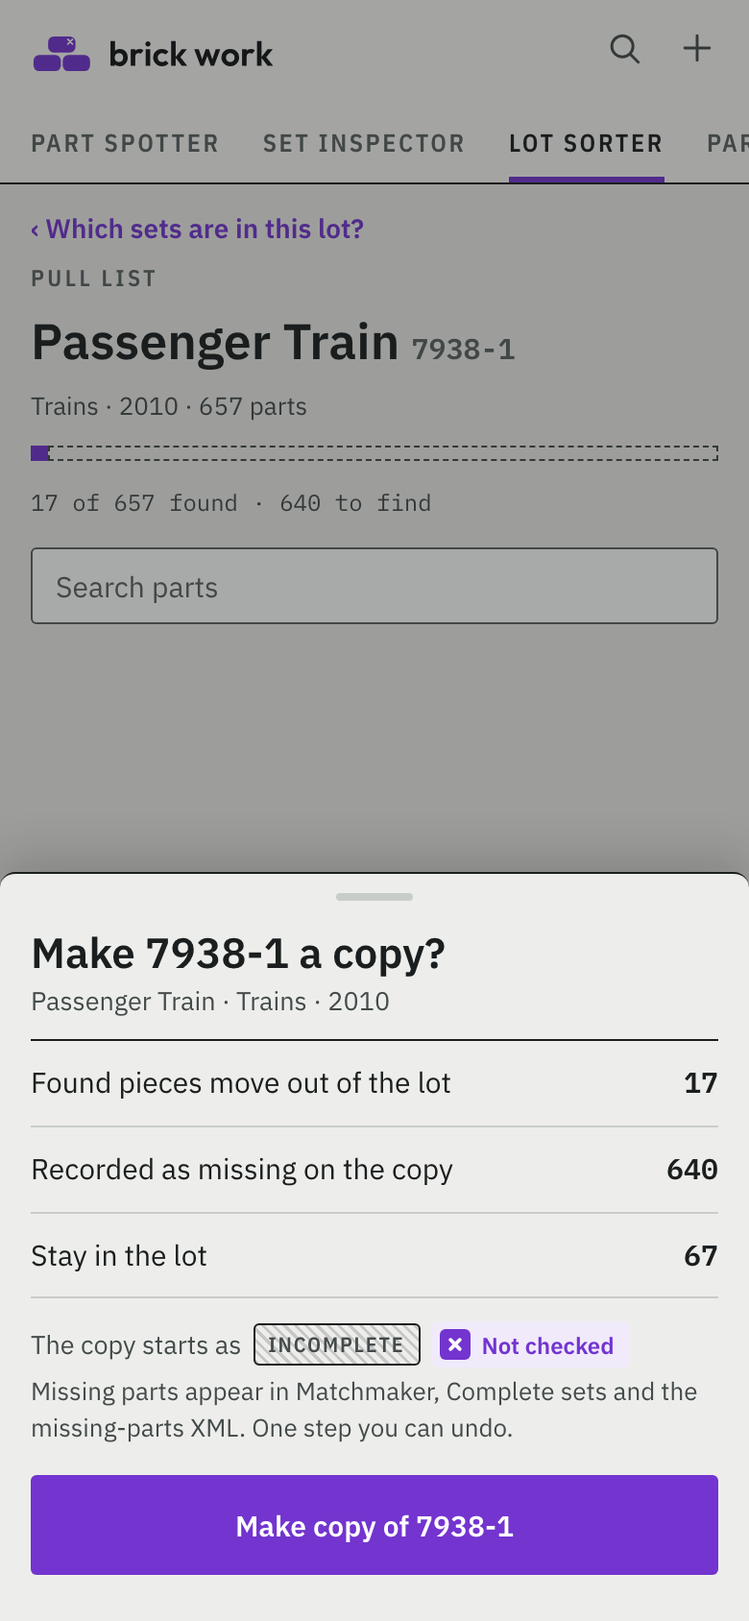
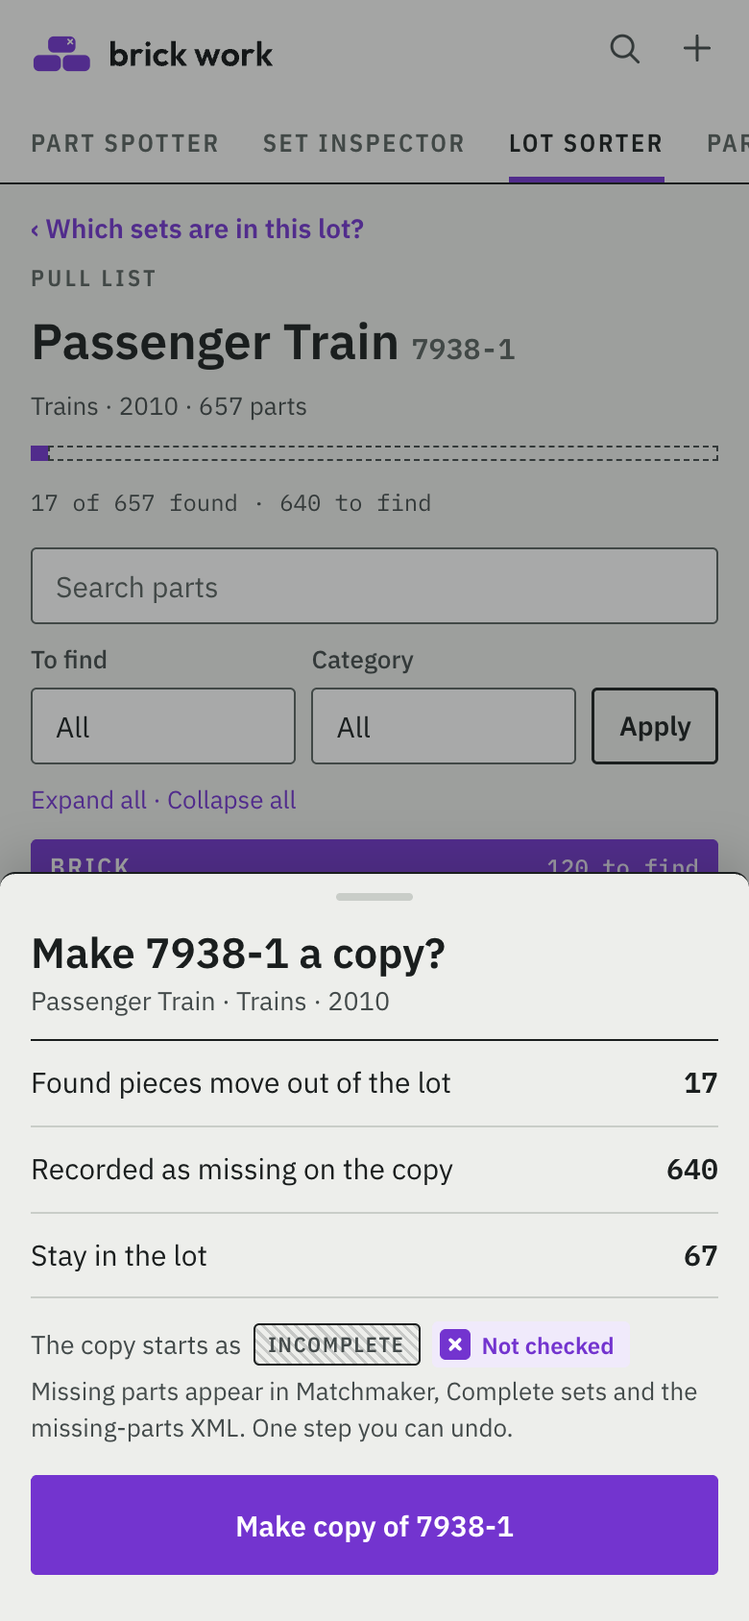
Lot Sorter frame 14 at 390: the pull list tools row, Expand all and the first group header drawn (#509)
Found by the brick-work frame check: shipped controls behind the scrim were left out of the phone frame. Frame files, b_frames.py and one BUILD-NOTES note only.

Claude-Session: https://claude.ai/code/session_018rf9z7oGb7bys5mk2HcdAb

diff --git a/design/screens-b/14-lot-sorter/light-390.html b/design/screens-b/14-lot-sorter/light-390.html
@@ -93,4 +93,4 @@ html,body{width:390px;height:844px}
 .chip{display:inline-flex;align-items:center;height:22px;padding:0 7px;border-radius:3px;font:500 12px var(--tw-font);white-space:nowrap}
 .ptile{width:44px;height:44px;flex:none;background:var(--tw-tile);border:1px solid var(--tw-divider);border-radius:2px;display:flex;align-items:flex-end;justify-content:center;font:400 9px var(--tw-mono);color:var(--tw-tile-ink);padding-bottom:3px}
 
-</style></head><body><div style="position:relative;height:100%"><div class="ptop"><svg role="img" aria-label="Brick Work" style="height:32px;width:129px;flex:none;display:block" xmlns="http://www.w3.org/2000/svg" viewBox="0 0 402.0 100"><defs><rect id="u" x="-22.0" y="-13.0" width="44" height="26" rx="9"/><mask id="m" maskUnits="userSpaceOnUse" x="-60" y="-60" width="120" height="120"><rect x="-60" y="-60" width="120" height="120" fill="#fff"/><path d="M9.75 -8.25L17.25 -0.75M17.25 -8.25L9.75 -0.75" stroke="#000" stroke-width="2.6" stroke-linecap="round" fill="none"/></mask></defs><g fill="#7334CF"><use href="#u" transform="translate(26.242 65.165) rotate(0) scale(1.0110)"/><use href="#u" transform="translate(73.758 65.165) rotate(0) scale(1.0110)"/><g transform="translate(50.000 34.835) rotate(0) scale(1.0110)"><use href="#u" mask="url(#m)"/></g></g><path transform="translate(126 69.68)" d="M18.256 0.56Q15.344000000000001 0.56 12.992 -0.672Q10.64 -1.9040000000000001 9.24 -4.032Q7.84 -6.16 7.728 -8.792V-18.424Q7.84 -21.056 9.268 -23.156Q10.696 -25.256 13.048 -26.432000000000002Q15.4 -27.608 18.256 -27.608Q22.008 -27.608 24.976 -25.759999999999998Q27.944 -23.912 29.652 -20.72Q31.36 -17.528 31.36 -13.496Q31.36 -9.52 29.652 -6.327999999999999Q27.944 -3.136 24.976 -1.288Q22.008 0.56 18.256 0.56ZM3.248 0.0V-40.488H10.584V-20.384L9.352 -13.888L10.528 -7.28V0.0ZM17.024 -6.216Q19.04 -6.216 20.58 -7.140000000000001Q22.12 -8.064 22.988 -9.716000000000001Q23.856 -11.368 23.856 -13.552Q23.856 -15.68 22.988 -17.332Q22.12 -18.984 20.552 -19.908Q18.984 -20.832 16.968 -20.832Q14.952 -20.832 13.411999999999999 -19.908Q11.872 -18.984 11.004000000000001 -17.332Q10.136000000000001 -15.68 10.136000000000001 -13.552Q10.136000000000001 -11.368 11.004000000000001 -9.716000000000001Q11.872 -8.064 13.440000000000001 -7.140000000000001Q15.008000000000001 -6.216 17.024 -6.216ZM36.175999999999995 0.0V-27.048000000000002H43.512V0.0ZM43.512 -14.952 40.656 -16.856Q41.16 -21.84 43.568 -24.724Q45.976 -27.608 50.512 -27.608Q52.471999999999994 -27.608 54.03999999999999 -26.964Q55.608 -26.32 56.896 -24.864L52.304 -19.6Q51.688 -20.272000000000002 50.82 -20.608Q49.952 -20.944 48.831999999999994 -20.944Q46.48 -20.944 44.995999999999995 -19.46Q43.512 -17.976 43.512 -14.952ZM60.48 0.0V-27.048000000000002H67.872V0.0ZM64.176 -31.416Q62.384 -31.416 61.208 -32.62Q60.032 -33.824 60.032 -35.616Q60.032 -37.352000000000004 61.208 -38.584Q62.384 -39.816 64.176 -39.816Q66.024 -39.816 67.172 -38.584Q68.32 -37.352000000000004 68.32 -35.616Q68.32 -33.824 67.172 -32.62Q66.024 -31.416 64.176 -31.416ZM87.13600000000001 0.56Q82.992 0.56 79.688 -1.288Q76.384 -3.136 74.48 -6.327999999999999Q72.57600000000001 -9.52 72.57600000000001 -13.496Q72.57600000000001 -17.528 74.48 -20.72Q76.384 -23.912 79.71600000000001 -25.788Q83.048 -27.664 87.13600000000001 -27.664Q90.328 -27.664 93.016 -26.488Q95.70400000000001 -25.312 97.664 -23.128L92.96000000000001 -18.368000000000002Q91.896 -19.544 90.412 -20.16Q88.928 -20.776 87.13600000000001 -20.776Q85.12 -20.776 83.524 -19.852Q81.928 -18.928 81.004 -17.332Q80.08000000000001 -15.736 80.08000000000001 -13.552Q80.08000000000001 -11.424 81.004 -9.772Q81.928 -8.120000000000001 83.524 -7.196000000000001Q85.12 -6.272 87.13600000000001 -6.272Q88.98400000000001 -6.272 90.468 -6.916Q91.952 -7.5600000000000005 93.016 -8.792L97.77600000000001 -4.032Q95.70400000000001 -1.792 93.016 -0.616Q90.328 0.56 87.13600000000001 0.56ZM119.16799999999999 0.0 108.696 -13.944 119.112 -27.048000000000002H127.568L115.36 -12.264000000000001L115.64 -15.848L128.128 0.0ZM101.92 0.0V-40.488H109.256V0.0ZM149.632 0.0 139.496 -27.048000000000002H146.888L153.496 -7.392L151.256 -7.336L158.03199999999998 -27.048000000000002H163.352L170.128 -7.336L167.888 -7.392L174.49599999999998 -27.048000000000002H181.888L171.808 0.0H166.488L159.656 -18.704H161.728L154.896 0.0ZM198.184 0.56Q194.096 0.56 190.82 -1.316Q187.54399999999998 -3.192 185.61199999999997 -6.412Q183.67999999999998 -9.632 183.67999999999998 -13.608Q183.67999999999998 -17.584 185.584 -20.747999999999998Q187.488 -23.912 190.792 -25.788Q194.096 -27.664 198.128 -27.664Q202.272 -27.664 205.548 -25.788Q208.82399999999998 -23.912 210.728 -20.747999999999998Q212.632 -17.584 212.632 -13.608Q212.632 -9.632 210.728 -6.412Q208.82399999999998 -3.192 205.548 -1.316Q202.272 0.56 198.184 0.56ZM198.128 -6.272Q200.2 -6.272 201.796 -7.196000000000001Q203.392 -8.120000000000001 204.26 -9.772Q205.128 -11.424 205.128 -13.552Q205.128 -15.68 204.23199999999997 -17.304000000000002Q203.33599999999998 -18.928 201.76799999999997 -19.852Q200.2 -20.776 198.128 -20.776Q196.112 -20.776 194.54399999999998 -19.852Q192.976 -18.928 192.07999999999998 -17.304000000000002Q191.184 -15.68 191.184 -13.552Q191.184 -11.424 192.07999999999998 -9.772Q192.976 -8.120000000000001 194.54399999999998 -7.196000000000001Q196.112 -6.272 198.128 -6.272ZM217.33599999999998 0.0V-27.048000000000002H224.672V0.0ZM224.672 -14.952 221.816 -16.856Q222.32 -21.84 224.728 -24.724Q227.136 -27.608 231.672 -27.608Q233.632 -27.608 235.2 -26.964Q236.768 -26.32 238.05599999999998 -24.864L233.464 -19.6Q232.84799999999998 -20.272000000000002 231.98 -20.608Q231.112 -20.944 229.992 -20.944Q227.64 -20.944 226.156 -19.46Q224.672 -17.976 224.672 -14.952ZM258.888 0.0 248.416 -13.944 258.832 -27.048000000000002H267.288L255.07999999999998 -12.264000000000001L255.35999999999999 -15.848L267.848 0.0ZM241.64 0.0V-40.488H248.976V0.0Z" fill="#111214"/></svg><span style="margin-left:auto;color:var(--tw-text-2)"><svg class="ic" width="22" height="22" viewBox="0 0 24 24" fill="none" stroke="currentColor" stroke-width="1.6" stroke-linecap="round" stroke-linejoin="round"><circle cx="11" cy="11" r="6"/><path d="M20 20l-4.5-4.5"/></svg></span><span style="color:var(--tw-text-2)"><svg class="ic" width="22" height="22" viewBox="0 0 24 24" fill="none" stroke="currentColor" stroke-width="1.6" stroke-linecap="round" stroke-linejoin="round"><path d="M12 5v14M5 12h14"/></svg></span></div><div class="psub"><span class="">Part Spotter</span><span class="">Set Inspector</span><span class="on">Lot Sorter</span><span class="">Part Runner</span><span class="">Matchmaker</span><span class="">Build Scout</span><span class="">Orders</span><span class="">Storage</span></div><div style="padding:14px 16px 0;display:flex;flex-direction:column;gap:10px"><div style="font:600 14px var(--tw-font);color:var(--tw-accent-text)">‹ Which sets are in this lot?</div><div class="lbl">Pull list</div><div style="font:600 26px/1.2 var(--tw-font)">Passenger Train <span class="mono" style="font-size:15px;color:var(--tw-text-muted)">7938-1</span></div><div style="font-size:13px;color:var(--tw-text-2)">Trains · 2010 · 657 parts</div><div class="bar" style="height:8px"><i style="width:2.6%;background:var(--tw-accent)"></i><i style="flex:1;border:1.5px dashed var(--tw-text-2)"></i></div><div class="bartxt">17 of 657 found · 640 to find</div><span class="input" style="height:40px;color:var(--tw-text-muted)">Search parts</span></div><div style="position:absolute;inset:0;z-index:5"><div class="scrim"></div><div class="sheet" style="bottom:0"><div style="width:40px;height:4px;border-radius:2px;background:var(--tw-divider);margin:0 auto 14px"></div><div style="font:600 22px/1.2 var(--tw-font)">Make 7938-1 a copy?</div><div style="font-size:13.5px;color:var(--tw-text-2);margin:2px 0 10px">Passenger Train · Trains · 2010</div><div style="border-top:1.5px solid var(--tw-rule)"><div style="display:flex;justify-content:space-between;padding:11px 0;border-bottom:1px solid var(--tw-divider);font-size:15px"><span>Found pieces move out of the lot</span><span class="mono" style="font-weight:600">17</span></div><div style="display:flex;justify-content:space-between;padding:11px 0;border-bottom:1px solid var(--tw-divider);font-size:15px"><span>Recorded as missing on the copy</span><span class="mono" style="font-weight:600">640</span></div><div style="display:flex;justify-content:space-between;padding:11px 0;border-bottom:1px solid var(--tw-divider);font-size:15px"><span>Stay in the lot</span><span class="mono" style="font-weight:600">67</span></div></div><div style="display:flex;gap:6px;align-items:center;flex-wrap:wrap;font-size:13.5px;color:var(--tw-text-2);margin:12px 0 4px">The copy starts as <span class="tag" style="background:repeating-linear-gradient(45deg,rgba(26,30,30,.18) 0 1.5px,transparent 1.5px 4px)">Incomplete</span><span class="xchip"><i><svg width="10" height="10" viewBox="0 0 10 10"><path d="M2.6 2.6l4.8 4.8M7.4 2.6l-4.8 4.8" stroke="#fff" stroke-width="1.9" stroke-linecap="round"/></svg></i>Not checked</span></div><p style="font-size:13px;color:var(--tw-text-2)">Missing parts appear in Matchmaker, Complete sets and the missing-parts XML. One step you can undo.</p><span class="btn" style="width:100%;height:52px;margin-top:14px">Make copy of 7938-1</span></div></div><div class="tabbar"><div class=""><svg class="ic" width="22" height="22" viewBox="0 0 24 24" fill="none" stroke="currentColor" stroke-width="1.6" stroke-linecap="round" stroke-linejoin="round"><path d="M4 9h16v10H4z"/><path d="M4 9l2-3h12l2 3"/></svg><span>Collection</span></div><div class="on"><svg class="ic" width="22" height="22" viewBox="0 0 24 24" fill="none" stroke="currentColor" stroke-width="1.6" stroke-linecap="round" stroke-linejoin="round"><path d="M4 7h10M18 7h2M4 17h4M12 17h8"/><circle cx="16" cy="7" r="2"/><circle cx="10" cy="17" r="2"/></svg><span>Workbench</span><b></b></div><div class=""><svg class="ic" width="22" height="22" viewBox="0 0 24 24" fill="none" stroke="currentColor" stroke-width="1.6" stroke-linecap="round" stroke-linejoin="round"><path d="M3 12V4h8l10 10-8 8z"/><circle cx="7.5" cy="8" r="1.2"/></svg><span>Planning</span></div><div class=""><svg class="ic" width="22" height="22" viewBox="0 0 24 24" fill="none" stroke="currentColor" stroke-width="1.6" stroke-linecap="round" stroke-linejoin="round"><path d="M14 6a4 4 0 105 5l-8 8-3-3 8-8z"/></svg><span>Manage</span></div></div></div></body></html>
+</style></head><body><div style="position:relative;height:100%"><div class="ptop"><svg role="img" aria-label="Brick Work" style="height:32px;width:129px;flex:none;display:block" xmlns="http://www.w3.org/2000/svg" viewBox="0 0 402.0 100"><defs><rect id="u" x="-22.0" y="-13.0" width="44" height="26" rx="9"/><mask id="m" maskUnits="userSpaceOnUse" x="-60" y="-60" width="120" height="120"><rect x="-60" y="-60" width="120" height="120" fill="#fff"/><path d="M9.75 -8.25L17.25 -0.75M17.25 -8.25L9.75 -0.75" stroke="#000" stroke-width="2.6" stroke-linecap="round" fill="none"/></mask></defs><g fill="#7334CF"><use href="#u" transform="translate(26.242 65.165) rotate(0) scale(1.0110)"/><use href="#u" transform="translate(73.758 65.165) rotate(0) scale(1.0110)"/><g transform="translate(50.000 34.835) rotate(0) scale(1.0110)"><use href="#u" mask="url(#m)"/></g></g><path transform="translate(126 69.68)" d="M18.256 0.56Q15.344000000000001 0.56 12.992 -0.672Q10.64 -1.9040000000000001 9.24 -4.032Q7.84 -6.16 7.728 -8.792V-18.424Q7.84 -21.056 9.268 -23.156Q10.696 -25.256 13.048 -26.432000000000002Q15.4 -27.608 18.256 -27.608Q22.008 -27.608 24.976 -25.759999999999998Q27.944 -23.912 29.652 -20.72Q31.36 -17.528 31.36 -13.496Q31.36 -9.52 29.652 -6.327999999999999Q27.944 -3.136 24.976 -1.288Q22.008 0.56 18.256 0.56ZM3.248 0.0V-40.488H10.584V-20.384L9.352 -13.888L10.528 -7.28V0.0ZM17.024 -6.216Q19.04 -6.216 20.58 -7.140000000000001Q22.12 -8.064 22.988 -9.716000000000001Q23.856 -11.368 23.856 -13.552Q23.856 -15.68 22.988 -17.332Q22.12 -18.984 20.552 -19.908Q18.984 -20.832 16.968 -20.832Q14.952 -20.832 13.411999999999999 -19.908Q11.872 -18.984 11.004000000000001 -17.332Q10.136000000000001 -15.68 10.136000000000001 -13.552Q10.136000000000001 -11.368 11.004000000000001 -9.716000000000001Q11.872 -8.064 13.440000000000001 -7.140000000000001Q15.008000000000001 -6.216 17.024 -6.216ZM36.175999999999995 0.0V-27.048000000000002H43.512V0.0ZM43.512 -14.952 40.656 -16.856Q41.16 -21.84 43.568 -24.724Q45.976 -27.608 50.512 -27.608Q52.471999999999994 -27.608 54.03999999999999 -26.964Q55.608 -26.32 56.896 -24.864L52.304 -19.6Q51.688 -20.272000000000002 50.82 -20.608Q49.952 -20.944 48.831999999999994 -20.944Q46.48 -20.944 44.995999999999995 -19.46Q43.512 -17.976 43.512 -14.952ZM60.48 0.0V-27.048000000000002H67.872V0.0ZM64.176 -31.416Q62.384 -31.416 61.208 -32.62Q60.032 -33.824 60.032 -35.616Q60.032 -37.352000000000004 61.208 -38.584Q62.384 -39.816 64.176 -39.816Q66.024 -39.816 67.172 -38.584Q68.32 -37.352000000000004 68.32 -35.616Q68.32 -33.824 67.172 -32.62Q66.024 -31.416 64.176 -31.416ZM87.13600000000001 0.56Q82.992 0.56 79.688 -1.288Q76.384 -3.136 74.48 -6.327999999999999Q72.57600000000001 -9.52 72.57600000000001 -13.496Q72.57600000000001 -17.528 74.48 -20.72Q76.384 -23.912 79.71600000000001 -25.788Q83.048 -27.664 87.13600000000001 -27.664Q90.328 -27.664 93.016 -26.488Q95.70400000000001 -25.312 97.664 -23.128L92.96000000000001 -18.368000000000002Q91.896 -19.544 90.412 -20.16Q88.928 -20.776 87.13600000000001 -20.776Q85.12 -20.776 83.524 -19.852Q81.928 -18.928 81.004 -17.332Q80.08000000000001 -15.736 80.08000000000001 -13.552Q80.08000000000001 -11.424 81.004 -9.772Q81.928 -8.120000000000001 83.524 -7.196000000000001Q85.12 -6.272 87.13600000000001 -6.272Q88.98400000000001 -6.272 90.468 -6.916Q91.952 -7.5600000000000005 93.016 -8.792L97.77600000000001 -4.032Q95.70400000000001 -1.792 93.016 -0.616Q90.328 0.56 87.13600000000001 0.56ZM119.16799999999999 0.0 108.696 -13.944 119.112 -27.048000000000002H127.568L115.36 -12.264000000000001L115.64 -15.848L128.128 0.0ZM101.92 0.0V-40.488H109.256V0.0ZM149.632 0.0 139.496 -27.048000000000002H146.888L153.496 -7.392L151.256 -7.336L158.03199999999998 -27.048000000000002H163.352L170.128 -7.336L167.888 -7.392L174.49599999999998 -27.048000000000002H181.888L171.808 0.0H166.488L159.656 -18.704H161.728L154.896 0.0ZM198.184 0.56Q194.096 0.56 190.82 -1.316Q187.54399999999998 -3.192 185.61199999999997 -6.412Q183.67999999999998 -9.632 183.67999999999998 -13.608Q183.67999999999998 -17.584 185.584 -20.747999999999998Q187.488 -23.912 190.792 -25.788Q194.096 -27.664 198.128 -27.664Q202.272 -27.664 205.548 -25.788Q208.82399999999998 -23.912 210.728 -20.747999999999998Q212.632 -17.584 212.632 -13.608Q212.632 -9.632 210.728 -6.412Q208.82399999999998 -3.192 205.548 -1.316Q202.272 0.56 198.184 0.56ZM198.128 -6.272Q200.2 -6.272 201.796 -7.196000000000001Q203.392 -8.120000000000001 204.26 -9.772Q205.128 -11.424 205.128 -13.552Q205.128 -15.68 204.23199999999997 -17.304000000000002Q203.33599999999998 -18.928 201.76799999999997 -19.852Q200.2 -20.776 198.128 -20.776Q196.112 -20.776 194.54399999999998 -19.852Q192.976 -18.928 192.07999999999998 -17.304000000000002Q191.184 -15.68 191.184 -13.552Q191.184 -11.424 192.07999999999998 -9.772Q192.976 -8.120000000000001 194.54399999999998 -7.196000000000001Q196.112 -6.272 198.128 -6.272ZM217.33599999999998 0.0V-27.048000000000002H224.672V0.0ZM224.672 -14.952 221.816 -16.856Q222.32 -21.84 224.728 -24.724Q227.136 -27.608 231.672 -27.608Q233.632 -27.608 235.2 -26.964Q236.768 -26.32 238.05599999999998 -24.864L233.464 -19.6Q232.84799999999998 -20.272000000000002 231.98 -20.608Q231.112 -20.944 229.992 -20.944Q227.64 -20.944 226.156 -19.46Q224.672 -17.976 224.672 -14.952ZM258.888 0.0 248.416 -13.944 258.832 -27.048000000000002H267.288L255.07999999999998 -12.264000000000001L255.35999999999999 -15.848L267.848 0.0ZM241.64 0.0V-40.488H248.976V0.0Z" fill="#111214"/></svg><span style="margin-left:auto;color:var(--tw-text-2)"><svg class="ic" width="22" height="22" viewBox="0 0 24 24" fill="none" stroke="currentColor" stroke-width="1.6" stroke-linecap="round" stroke-linejoin="round"><circle cx="11" cy="11" r="6"/><path d="M20 20l-4.5-4.5"/></svg></span><span style="color:var(--tw-text-2)"><svg class="ic" width="22" height="22" viewBox="0 0 24 24" fill="none" stroke="currentColor" stroke-width="1.6" stroke-linecap="round" stroke-linejoin="round"><path d="M12 5v14M5 12h14"/></svg></span></div><div class="psub"><span class="">Part Spotter</span><span class="">Set Inspector</span><span class="on">Lot Sorter</span><span class="">Part Runner</span><span class="">Matchmaker</span><span class="">Build Scout</span><span class="">Orders</span><span class="">Storage</span></div><div style="padding:14px 16px 0;display:flex;flex-direction:column;gap:10px"><div style="font:600 14px var(--tw-font);color:var(--tw-accent-text)">‹ Which sets are in this lot?</div><div class="lbl">Pull list</div><div style="font:600 26px/1.2 var(--tw-font)">Passenger Train <span class="mono" style="font-size:15px;color:var(--tw-text-muted)">7938-1</span></div><div style="font-size:13px;color:var(--tw-text-2)">Trains · 2010 · 657 parts</div><div class="bar" style="height:8px"><i style="width:2.6%;background:var(--tw-accent)"></i><i style="flex:1;border:1.5px dashed var(--tw-text-2)"></i></div><div class="bartxt">17 of 657 found · 640 to find</div><span class="input" style="height:40px;color:var(--tw-text-muted)">Search parts</span><div style="display:flex;gap:8px;align-items:flex-end"><label class="field" style="flex:1;min-width:0">To find<span class="input" style="height:40px">All</span></label><label class="field" style="flex:1;min-width:0">Category<span class="input" style="height:40px">All</span></label><span class="btn sec sm" style="height:40px">Apply</span></div><div style="font-size:13px;color:var(--tw-accent-text)">Expand all · Collapse all</div><div class="tape">Brick<span class="mono">120 to find</span></div></div><div style="position:absolute;inset:0;z-index:5"><div class="scrim"></div><div class="sheet" style="bottom:0"><div style="width:40px;height:4px;border-radius:2px;background:var(--tw-divider);margin:0 auto 14px"></div><div style="font:600 22px/1.2 var(--tw-font)">Make 7938-1 a copy?</div><div style="font-size:13.5px;color:var(--tw-text-2);margin:2px 0 10px">Passenger Train · Trains · 2010</div><div style="border-top:1.5px solid var(--tw-rule)"><div style="display:flex;justify-content:space-between;padding:11px 0;border-bottom:1px solid var(--tw-divider);font-size:15px"><span>Found pieces move out of the lot</span><span class="mono" style="font-weight:600">17</span></div><div style="display:flex;justify-content:space-between;padding:11px 0;border-bottom:1px solid var(--tw-divider);font-size:15px"><span>Recorded as missing on the copy</span><span class="mono" style="font-weight:600">640</span></div><div style="display:flex;justify-content:space-between;padding:11px 0;border-bottom:1px solid var(--tw-divider);font-size:15px"><span>Stay in the lot</span><span class="mono" style="font-weight:600">67</span></div></div><div style="display:flex;gap:6px;align-items:center;flex-wrap:wrap;font-size:13.5px;color:var(--tw-text-2);margin:12px 0 4px">The copy starts as <span class="tag" style="background:repeating-linear-gradient(45deg,rgba(26,30,30,.18) 0 1.5px,transparent 1.5px 4px)">Incomplete</span><span class="xchip"><i><svg width="10" height="10" viewBox="0 0 10 10"><path d="M2.6 2.6l4.8 4.8M7.4 2.6l-4.8 4.8" stroke="#fff" stroke-width="1.9" stroke-linecap="round"/></svg></i>Not checked</span></div><p style="font-size:13px;color:var(--tw-text-2)">Missing parts appear in Matchmaker, Complete sets and the missing-parts XML. One step you can undo.</p><span class="btn" style="width:100%;height:52px;margin-top:14px">Make copy of 7938-1</span></div></div><div class="tabbar"><div class=""><svg class="ic" width="22" height="22" viewBox="0 0 24 24" fill="none" stroke="currentColor" stroke-width="1.6" stroke-linecap="round" stroke-linejoin="round"><path d="M4 9h16v10H4z"/><path d="M4 9l2-3h12l2 3"/></svg><span>Collection</span></div><div class="on"><svg class="ic" width="22" height="22" viewBox="0 0 24 24" fill="none" stroke="currentColor" stroke-width="1.6" stroke-linecap="round" stroke-linejoin="round"><path d="M4 7h10M18 7h2M4 17h4M12 17h8"/><circle cx="16" cy="7" r="2"/><circle cx="10" cy="17" r="2"/></svg><span>Workbench</span><b></b></div><div class=""><svg class="ic" width="22" height="22" viewBox="0 0 24 24" fill="none" stroke="currentColor" stroke-width="1.6" stroke-linecap="round" stroke-linejoin="round"><path d="M3 12V4h8l10 10-8 8z"/><circle cx="7.5" cy="8" r="1.2"/></svg><span>Planning</span></div><div class=""><svg class="ic" width="22" height="22" viewBox="0 0 24 24" fill="none" stroke="currentColor" stroke-width="1.6" stroke-linecap="round" stroke-linejoin="round"><path d="M14 6a4 4 0 105 5l-8 8-3-3 8-8z"/></svg><span>Manage</span></div></div></div></body></html>

diff --git a/design/screens-b/14-lot-sorter/dark-390.html b/design/screens-b/14-lot-sorter/dark-390.html
@@ -97,4 +97,4 @@ html,body{width:390px;height:844px}
 html{color-scheme:dark}
 .tile img{mix-blend-mode:multiply}   /* catalogue pictures only; Ulf 19.11.: "B" (light grey tile, multiply) */
 .xchip svg path,.cb svg path{stroke:var(--tw-on-accent)}
-</style></head><body><div style="position:relative;height:100%"><div class="ptop"><svg role="img" aria-label="Brick Work" style="height:32px;width:129px;flex:none;display:block" xmlns="http://www.w3.org/2000/svg" viewBox="0 0 402.0 100"><defs><rect id="u" x="-22.0" y="-13.0" width="44" height="26" rx="9"/><mask id="m" maskUnits="userSpaceOnUse" x="-60" y="-60" width="120" height="120"><rect x="-60" y="-60" width="120" height="120" fill="#fff"/><path d="M9.75 -8.25L17.25 -0.75M17.25 -8.25L9.75 -0.75" stroke="#000" stroke-width="2.6" stroke-linecap="round" fill="none"/></mask></defs><g fill="#B995F6"><use href="#u" transform="translate(26.242 65.165) rotate(0) scale(1.0110)"/><use href="#u" transform="translate(73.758 65.165) rotate(0) scale(1.0110)"/><g transform="translate(50.000 34.835) rotate(0) scale(1.0110)"><use href="#u" mask="url(#m)"/></g></g><path transform="translate(126 69.68)" d="M18.256 0.56Q15.344000000000001 0.56 12.992 -0.672Q10.64 -1.9040000000000001 9.24 -4.032Q7.84 -6.16 7.728 -8.792V-18.424Q7.84 -21.056 9.268 -23.156Q10.696 -25.256 13.048 -26.432000000000002Q15.4 -27.608 18.256 -27.608Q22.008 -27.608 24.976 -25.759999999999998Q27.944 -23.912 29.652 -20.72Q31.36 -17.528 31.36 -13.496Q31.36 -9.52 29.652 -6.327999999999999Q27.944 -3.136 24.976 -1.288Q22.008 0.56 18.256 0.56ZM3.248 0.0V-40.488H10.584V-20.384L9.352 -13.888L10.528 -7.28V0.0ZM17.024 -6.216Q19.04 -6.216 20.58 -7.140000000000001Q22.12 -8.064 22.988 -9.716000000000001Q23.856 -11.368 23.856 -13.552Q23.856 -15.68 22.988 -17.332Q22.12 -18.984 20.552 -19.908Q18.984 -20.832 16.968 -20.832Q14.952 -20.832 13.411999999999999 -19.908Q11.872 -18.984 11.004000000000001 -17.332Q10.136000000000001 -15.68 10.136000000000001 -13.552Q10.136000000000001 -11.368 11.004000000000001 -9.716000000000001Q11.872 -8.064 13.440000000000001 -7.140000000000001Q15.008000000000001 -6.216 17.024 -6.216ZM36.175999999999995 0.0V-27.048000000000002H43.512V0.0ZM43.512 -14.952 40.656 -16.856Q41.16 -21.84 43.568 -24.724Q45.976 -27.608 50.512 -27.608Q52.471999999999994 -27.608 54.03999999999999 -26.964Q55.608 -26.32 56.896 -24.864L52.304 -19.6Q51.688 -20.272000000000002 50.82 -20.608Q49.952 -20.944 48.831999999999994 -20.944Q46.48 -20.944 44.995999999999995 -19.46Q43.512 -17.976 43.512 -14.952ZM60.48 0.0V-27.048000000000002H67.872V0.0ZM64.176 -31.416Q62.384 -31.416 61.208 -32.62Q60.032 -33.824 60.032 -35.616Q60.032 -37.352000000000004 61.208 -38.584Q62.384 -39.816 64.176 -39.816Q66.024 -39.816 67.172 -38.584Q68.32 -37.352000000000004 68.32 -35.616Q68.32 -33.824 67.172 -32.62Q66.024 -31.416 64.176 -31.416ZM87.13600000000001 0.56Q82.992 0.56 79.688 -1.288Q76.384 -3.136 74.48 -6.327999999999999Q72.57600000000001 -9.52 72.57600000000001 -13.496Q72.57600000000001 -17.528 74.48 -20.72Q76.384 -23.912 79.71600000000001 -25.788Q83.048 -27.664 87.13600000000001 -27.664Q90.328 -27.664 93.016 -26.488Q95.70400000000001 -25.312 97.664 -23.128L92.96000000000001 -18.368000000000002Q91.896 -19.544 90.412 -20.16Q88.928 -20.776 87.13600000000001 -20.776Q85.12 -20.776 83.524 -19.852Q81.928 -18.928 81.004 -17.332Q80.08000000000001 -15.736 80.08000000000001 -13.552Q80.08000000000001 -11.424 81.004 -9.772Q81.928 -8.120000000000001 83.524 -7.196000000000001Q85.12 -6.272 87.13600000000001 -6.272Q88.98400000000001 -6.272 90.468 -6.916Q91.952 -7.5600000000000005 93.016 -8.792L97.77600000000001 -4.032Q95.70400000000001 -1.792 93.016 -0.616Q90.328 0.56 87.13600000000001 0.56ZM119.16799999999999 0.0 108.696 -13.944 119.112 -27.048000000000002H127.568L115.36 -12.264000000000001L115.64 -15.848L128.128 0.0ZM101.92 0.0V-40.488H109.256V0.0ZM149.632 0.0 139.496 -27.048000000000002H146.888L153.496 -7.392L151.256 -7.336L158.03199999999998 -27.048000000000002H163.352L170.128 -7.336L167.888 -7.392L174.49599999999998 -27.048000000000002H181.888L171.808 0.0H166.488L159.656 -18.704H161.728L154.896 0.0ZM198.184 0.56Q194.096 0.56 190.82 -1.316Q187.54399999999998 -3.192 185.61199999999997 -6.412Q183.67999999999998 -9.632 183.67999999999998 -13.608Q183.67999999999998 -17.584 185.584 -20.747999999999998Q187.488 -23.912 190.792 -25.788Q194.096 -27.664 198.128 -27.664Q202.272 -27.664 205.548 -25.788Q208.82399999999998 -23.912 210.728 -20.747999999999998Q212.632 -17.584 212.632 -13.608Q212.632 -9.632 210.728 -6.412Q208.82399999999998 -3.192 205.548 -1.316Q202.272 0.56 198.184 0.56ZM198.128 -6.272Q200.2 -6.272 201.796 -7.196000000000001Q203.392 -8.120000000000001 204.26 -9.772Q205.128 -11.424 205.128 -13.552Q205.128 -15.68 204.23199999999997 -17.304000000000002Q203.33599999999998 -18.928 201.76799999999997 -19.852Q200.2 -20.776 198.128 -20.776Q196.112 -20.776 194.54399999999998 -19.852Q192.976 -18.928 192.07999999999998 -17.304000000000002Q191.184 -15.68 191.184 -13.552Q191.184 -11.424 192.07999999999998 -9.772Q192.976 -8.120000000000001 194.54399999999998 -7.196000000000001Q196.112 -6.272 198.128 -6.272ZM217.33599999999998 0.0V-27.048000000000002H224.672V0.0ZM224.672 -14.952 221.816 -16.856Q222.32 -21.84 224.728 -24.724Q227.136 -27.608 231.672 -27.608Q233.632 -27.608 235.2 -26.964Q236.768 -26.32 238.05599999999998 -24.864L233.464 -19.6Q232.84799999999998 -20.272000000000002 231.98 -20.608Q231.112 -20.944 229.992 -20.944Q227.64 -20.944 226.156 -19.46Q224.672 -17.976 224.672 -14.952ZM258.888 0.0 248.416 -13.944 258.832 -27.048000000000002H267.288L255.07999999999998 -12.264000000000001L255.35999999999999 -15.848L267.848 0.0ZM241.64 0.0V-40.488H248.976V0.0Z" fill="#EDEDEF"/></svg><span style="margin-left:auto;color:var(--tw-text-2)"><svg class="ic" width="22" height="22" viewBox="0 0 24 24" fill="none" stroke="currentColor" stroke-width="1.6" stroke-linecap="round" stroke-linejoin="round"><circle cx="11" cy="11" r="6"/><path d="M20 20l-4.5-4.5"/></svg></span><span style="color:var(--tw-text-2)"><svg class="ic" width="22" height="22" viewBox="0 0 24 24" fill="none" stroke="currentColor" stroke-width="1.6" stroke-linecap="round" stroke-linejoin="round"><path d="M12 5v14M5 12h14"/></svg></span></div><div class="psub"><span class="">Part Spotter</span><span class="">Set Inspector</span><span class="on">Lot Sorter</span><span class="">Part Runner</span><span class="">Matchmaker</span><span class="">Build Scout</span><span class="">Orders</span><span class="">Storage</span></div><div style="padding:14px 16px 0;display:flex;flex-direction:column;gap:10px"><div style="font:600 14px var(--tw-font);color:var(--tw-accent-text)">‹ Which sets are in this lot?</div><div class="lbl">Pull list</div><div style="font:600 26px/1.2 var(--tw-font)">Passenger Train <span class="mono" style="font-size:15px;color:var(--tw-text-muted)">7938-1</span></div><div style="font-size:13px;color:var(--tw-text-2)">Trains · 2010 · 657 parts</div><div class="bar" style="height:8px"><i style="width:2.6%;background:var(--tw-accent)"></i><i style="flex:1;border:1.5px dashed var(--tw-text-2)"></i></div><div class="bartxt">17 of 657 found · 640 to find</div><span class="input" style="height:40px;color:var(--tw-text-muted)">Search parts</span></div><div style="position:absolute;inset:0;z-index:5"><div class="scrim"></div><div class="sheet" style="bottom:0"><div style="width:40px;height:4px;border-radius:2px;background:var(--tw-divider);margin:0 auto 14px"></div><div style="font:600 22px/1.2 var(--tw-font)">Make 7938-1 a copy?</div><div style="font-size:13.5px;color:var(--tw-text-2);margin:2px 0 10px">Passenger Train · Trains · 2010</div><div style="border-top:1.5px solid var(--tw-rule)"><div style="display:flex;justify-content:space-between;padding:11px 0;border-bottom:1px solid var(--tw-divider);font-size:15px"><span>Found pieces move out of the lot</span><span class="mono" style="font-weight:600">17</span></div><div style="display:flex;justify-content:space-between;padding:11px 0;border-bottom:1px solid var(--tw-divider);font-size:15px"><span>Recorded as missing on the copy</span><span class="mono" style="font-weight:600">640</span></div><div style="display:flex;justify-content:space-between;padding:11px 0;border-bottom:1px solid var(--tw-divider);font-size:15px"><span>Stay in the lot</span><span class="mono" style="font-weight:600">67</span></div></div><div style="display:flex;gap:6px;align-items:center;flex-wrap:wrap;font-size:13.5px;color:var(--tw-text-2);margin:12px 0 4px">The copy starts as <span class="tag" style="background:repeating-linear-gradient(45deg,rgba(227,230,226,.24) 0 1.5px,transparent 1.5px 4px)">Incomplete</span><span class="xchip"><i><svg width="10" height="10" viewBox="0 0 10 10"><path d="M2.6 2.6l4.8 4.8M7.4 2.6l-4.8 4.8" stroke="#fff" stroke-width="1.9" stroke-linecap="round"/></svg></i>Not checked</span></div><p style="font-size:13px;color:var(--tw-text-2)">Missing parts appear in Matchmaker, Complete sets and the missing-parts XML. One step you can undo.</p><span class="btn" style="width:100%;height:52px;margin-top:14px">Make copy of 7938-1</span></div></div><div class="tabbar"><div class=""><svg class="ic" width="22" height="22" viewBox="0 0 24 24" fill="none" stroke="currentColor" stroke-width="1.6" stroke-linecap="round" stroke-linejoin="round"><path d="M4 9h16v10H4z"/><path d="M4 9l2-3h12l2 3"/></svg><span>Collection</span></div><div class="on"><svg class="ic" width="22" height="22" viewBox="0 0 24 24" fill="none" stroke="currentColor" stroke-width="1.6" stroke-linecap="round" stroke-linejoin="round"><path d="M4 7h10M18 7h2M4 17h4M12 17h8"/><circle cx="16" cy="7" r="2"/><circle cx="10" cy="17" r="2"/></svg><span>Workbench</span><b></b></div><div class=""><svg class="ic" width="22" height="22" viewBox="0 0 24 24" fill="none" stroke="currentColor" stroke-width="1.6" stroke-linecap="round" stroke-linejoin="round"><path d="M3 12V4h8l10 10-8 8z"/><circle cx="7.5" cy="8" r="1.2"/></svg><span>Planning</span></div><div class=""><svg class="ic" width="22" height="22" viewBox="0 0 24 24" fill="none" stroke="currentColor" stroke-width="1.6" stroke-linecap="round" stroke-linejoin="round"><path d="M14 6a4 4 0 105 5l-8 8-3-3 8-8z"/></svg><span>Manage</span></div></div></div></body></html>
+</style></head><body><div style="position:relative;height:100%"><div class="ptop"><svg role="img" aria-label="Brick Work" style="height:32px;width:129px;flex:none;display:block" xmlns="http://www.w3.org/2000/svg" viewBox="0 0 402.0 100"><defs><rect id="u" x="-22.0" y="-13.0" width="44" height="26" rx="9"/><mask id="m" maskUnits="userSpaceOnUse" x="-60" y="-60" width="120" height="120"><rect x="-60" y="-60" width="120" height="120" fill="#fff"/><path d="M9.75 -8.25L17.25 -0.75M17.25 -8.25L9.75 -0.75" stroke="#000" stroke-width="2.6" stroke-linecap="round" fill="none"/></mask></defs><g fill="#B995F6"><use href="#u" transform="translate(26.242 65.165) rotate(0) scale(1.0110)"/><use href="#u" transform="translate(73.758 65.165) rotate(0) scale(1.0110)"/><g transform="translate(50.000 34.835) rotate(0) scale(1.0110)"><use href="#u" mask="url(#m)"/></g></g><path transform="translate(126 69.68)" d="M18.256 0.56Q15.344000000000001 0.56 12.992 -0.672Q10.64 -1.9040000000000001 9.24 -4.032Q7.84 -6.16 7.728 -8.792V-18.424Q7.84 -21.056 9.268 -23.156Q10.696 -25.256 13.048 -26.432000000000002Q15.4 -27.608 18.256 -27.608Q22.008 -27.608 24.976 -25.759999999999998Q27.944 -23.912 29.652 -20.72Q31.36 -17.528 31.36 -13.496Q31.36 -9.52 29.652 -6.327999999999999Q27.944 -3.136 24.976 -1.288Q22.008 0.56 18.256 0.56ZM3.248 0.0V-40.488H10.584V-20.384L9.352 -13.888L10.528 -7.28V0.0ZM17.024 -6.216Q19.04 -6.216 20.58 -7.140000000000001Q22.12 -8.064 22.988 -9.716000000000001Q23.856 -11.368 23.856 -13.552Q23.856 -15.68 22.988 -17.332Q22.12 -18.984 20.552 -19.908Q18.984 -20.832 16.968 -20.832Q14.952 -20.832 13.411999999999999 -19.908Q11.872 -18.984 11.004000000000001 -17.332Q10.136000000000001 -15.68 10.136000000000001 -13.552Q10.136000000000001 -11.368 11.004000000000001 -9.716000000000001Q11.872 -8.064 13.440000000000001 -7.140000000000001Q15.008000000000001 -6.216 17.024 -6.216ZM36.175999999999995 0.0V-27.048000000000002H43.512V0.0ZM43.512 -14.952 40.656 -16.856Q41.16 -21.84 43.568 -24.724Q45.976 -27.608 50.512 -27.608Q52.471999999999994 -27.608 54.03999999999999 -26.964Q55.608 -26.32 56.896 -24.864L52.304 -19.6Q51.688 -20.272000000000002 50.82 -20.608Q49.952 -20.944 48.831999999999994 -20.944Q46.48 -20.944 44.995999999999995 -19.46Q43.512 -17.976 43.512 -14.952ZM60.48 0.0V-27.048000000000002H67.872V0.0ZM64.176 -31.416Q62.384 -31.416 61.208 -32.62Q60.032 -33.824 60.032 -35.616Q60.032 -37.352000000000004 61.208 -38.584Q62.384 -39.816 64.176 -39.816Q66.024 -39.816 67.172 -38.584Q68.32 -37.352000000000004 68.32 -35.616Q68.32 -33.824 67.172 -32.62Q66.024 -31.416 64.176 -31.416ZM87.13600000000001 0.56Q82.992 0.56 79.688 -1.288Q76.384 -3.136 74.48 -6.327999999999999Q72.57600000000001 -9.52 72.57600000000001 -13.496Q72.57600000000001 -17.528 74.48 -20.72Q76.384 -23.912 79.71600000000001 -25.788Q83.048 -27.664 87.13600000000001 -27.664Q90.328 -27.664 93.016 -26.488Q95.70400000000001 -25.312 97.664 -23.128L92.96000000000001 -18.368000000000002Q91.896 -19.544 90.412 -20.16Q88.928 -20.776 87.13600000000001 -20.776Q85.12 -20.776 83.524 -19.852Q81.928 -18.928 81.004 -17.332Q80.08000000000001 -15.736 80.08000000000001 -13.552Q80.08000000000001 -11.424 81.004 -9.772Q81.928 -8.120000000000001 83.524 -7.196000000000001Q85.12 -6.272 87.13600000000001 -6.272Q88.98400000000001 -6.272 90.468 -6.916Q91.952 -7.5600000000000005 93.016 -8.792L97.77600000000001 -4.032Q95.70400000000001 -1.792 93.016 -0.616Q90.328 0.56 87.13600000000001 0.56ZM119.16799999999999 0.0 108.696 -13.944 119.112 -27.048000000000002H127.568L115.36 -12.264000000000001L115.64 -15.848L128.128 0.0ZM101.92 0.0V-40.488H109.256V0.0ZM149.632 0.0 139.496 -27.048000000000002H146.888L153.496 -7.392L151.256 -7.336L158.03199999999998 -27.048000000000002H163.352L170.128 -7.336L167.888 -7.392L174.49599999999998 -27.048000000000002H181.888L171.808 0.0H166.488L159.656 -18.704H161.728L154.896 0.0ZM198.184 0.56Q194.096 0.56 190.82 -1.316Q187.54399999999998 -3.192 185.61199999999997 -6.412Q183.67999999999998 -9.632 183.67999999999998 -13.608Q183.67999999999998 -17.584 185.584 -20.747999999999998Q187.488 -23.912 190.792 -25.788Q194.096 -27.664 198.128 -27.664Q202.272 -27.664 205.548 -25.788Q208.82399999999998 -23.912 210.728 -20.747999999999998Q212.632 -17.584 212.632 -13.608Q212.632 -9.632 210.728 -6.412Q208.82399999999998 -3.192 205.548 -1.316Q202.272 0.56 198.184 0.56ZM198.128 -6.272Q200.2 -6.272 201.796 -7.196000000000001Q203.392 -8.120000000000001 204.26 -9.772Q205.128 -11.424 205.128 -13.552Q205.128 -15.68 204.23199999999997 -17.304000000000002Q203.33599999999998 -18.928 201.76799999999997 -19.852Q200.2 -20.776 198.128 -20.776Q196.112 -20.776 194.54399999999998 -19.852Q192.976 -18.928 192.07999999999998 -17.304000000000002Q191.184 -15.68 191.184 -13.552Q191.184 -11.424 192.07999999999998 -9.772Q192.976 -8.120000000000001 194.54399999999998 -7.196000000000001Q196.112 -6.272 198.128 -6.272ZM217.33599999999998 0.0V-27.048000000000002H224.672V0.0ZM224.672 -14.952 221.816 -16.856Q222.32 -21.84 224.728 -24.724Q227.136 -27.608 231.672 -27.608Q233.632 -27.608 235.2 -26.964Q236.768 -26.32 238.05599999999998 -24.864L233.464 -19.6Q232.84799999999998 -20.272000000000002 231.98 -20.608Q231.112 -20.944 229.992 -20.944Q227.64 -20.944 226.156 -19.46Q224.672 -17.976 224.672 -14.952ZM258.888 0.0 248.416 -13.944 258.832 -27.048000000000002H267.288L255.07999999999998 -12.264000000000001L255.35999999999999 -15.848L267.848 0.0ZM241.64 0.0V-40.488H248.976V0.0Z" fill="#EDEDEF"/></svg><span style="margin-left:auto;color:var(--tw-text-2)"><svg class="ic" width="22" height="22" viewBox="0 0 24 24" fill="none" stroke="currentColor" stroke-width="1.6" stroke-linecap="round" stroke-linejoin="round"><circle cx="11" cy="11" r="6"/><path d="M20 20l-4.5-4.5"/></svg></span><span style="color:var(--tw-text-2)"><svg class="ic" width="22" height="22" viewBox="0 0 24 24" fill="none" stroke="currentColor" stroke-width="1.6" stroke-linecap="round" stroke-linejoin="round"><path d="M12 5v14M5 12h14"/></svg></span></div><div class="psub"><span class="">Part Spotter</span><span class="">Set Inspector</span><span class="on">Lot Sorter</span><span class="">Part Runner</span><span class="">Matchmaker</span><span class="">Build Scout</span><span class="">Orders</span><span class="">Storage</span></div><div style="padding:14px 16px 0;display:flex;flex-direction:column;gap:10px"><div style="font:600 14px var(--tw-font);color:var(--tw-accent-text)">‹ Which sets are in this lot?</div><div class="lbl">Pull list</div><div style="font:600 26px/1.2 var(--tw-font)">Passenger Train <span class="mono" style="font-size:15px;color:var(--tw-text-muted)">7938-1</span></div><div style="font-size:13px;color:var(--tw-text-2)">Trains · 2010 · 657 parts</div><div class="bar" style="height:8px"><i style="width:2.6%;background:var(--tw-accent)"></i><i style="flex:1;border:1.5px dashed var(--tw-text-2)"></i></div><div class="bartxt">17 of 657 found · 640 to find</div><span class="input" style="height:40px;color:var(--tw-text-muted)">Search parts</span><div style="display:flex;gap:8px;align-items:flex-end"><label class="field" style="flex:1;min-width:0">To find<span class="input" style="height:40px">All</span></label><label class="field" style="flex:1;min-width:0">Category<span class="input" style="height:40px">All</span></label><span class="btn sec sm" style="height:40px">Apply</span></div><div style="font-size:13px;color:var(--tw-accent-text)">Expand all · Collapse all</div><div class="tape">Brick<span class="mono">120 to find</span></div></div><div style="position:absolute;inset:0;z-index:5"><div class="scrim"></div><div class="sheet" style="bottom:0"><div style="width:40px;height:4px;border-radius:2px;background:var(--tw-divider);margin:0 auto 14px"></div><div style="font:600 22px/1.2 var(--tw-font)">Make 7938-1 a copy?</div><div style="font-size:13.5px;color:var(--tw-text-2);margin:2px 0 10px">Passenger Train · Trains · 2010</div><div style="border-top:1.5px solid var(--tw-rule)"><div style="display:flex;justify-content:space-between;padding:11px 0;border-bottom:1px solid var(--tw-divider);font-size:15px"><span>Found pieces move out of the lot</span><span class="mono" style="font-weight:600">17</span></div><div style="display:flex;justify-content:space-between;padding:11px 0;border-bottom:1px solid var(--tw-divider);font-size:15px"><span>Recorded as missing on the copy</span><span class="mono" style="font-weight:600">640</span></div><div style="display:flex;justify-content:space-between;padding:11px 0;border-bottom:1px solid var(--tw-divider);font-size:15px"><span>Stay in the lot</span><span class="mono" style="font-weight:600">67</span></div></div><div style="display:flex;gap:6px;align-items:center;flex-wrap:wrap;font-size:13.5px;color:var(--tw-text-2);margin:12px 0 4px">The copy starts as <span class="tag" style="background:repeating-linear-gradient(45deg,rgba(227,230,226,.24) 0 1.5px,transparent 1.5px 4px)">Incomplete</span><span class="xchip"><i><svg width="10" height="10" viewBox="0 0 10 10"><path d="M2.6 2.6l4.8 4.8M7.4 2.6l-4.8 4.8" stroke="#fff" stroke-width="1.9" stroke-linecap="round"/></svg></i>Not checked</span></div><p style="font-size:13px;color:var(--tw-text-2)">Missing parts appear in Matchmaker, Complete sets and the missing-parts XML. One step you can undo.</p><span class="btn" style="width:100%;height:52px;margin-top:14px">Make copy of 7938-1</span></div></div><div class="tabbar"><div class=""><svg class="ic" width="22" height="22" viewBox="0 0 24 24" fill="none" stroke="currentColor" stroke-width="1.6" stroke-linecap="round" stroke-linejoin="round"><path d="M4 9h16v10H4z"/><path d="M4 9l2-3h12l2 3"/></svg><span>Collection</span></div><div class="on"><svg class="ic" width="22" height="22" viewBox="0 0 24 24" fill="none" stroke="currentColor" stroke-width="1.6" stroke-linecap="round" stroke-linejoin="round"><path d="M4 7h10M18 7h2M4 17h4M12 17h8"/><circle cx="16" cy="7" r="2"/><circle cx="10" cy="17" r="2"/></svg><span>Workbench</span><b></b></div><div class=""><svg class="ic" width="22" height="22" viewBox="0 0 24 24" fill="none" stroke="currentColor" stroke-width="1.6" stroke-linecap="round" stroke-linejoin="round"><path d="M3 12V4h8l10 10-8 8z"/><circle cx="7.5" cy="8" r="1.2"/></svg><span>Planning</span></div><div class=""><svg class="ic" width="22" height="22" viewBox="0 0 24 24" fill="none" stroke="currentColor" stroke-width="1.6" stroke-linecap="round" stroke-linejoin="round"><path d="M14 6a4 4 0 105 5l-8 8-3-3 8-8z"/></svg><span>Manage</span></div></div></div></body></html>

diff --git a/design/sources/b/b_frames.py b/design/sources/b/b_frames.py
@@ -932,7 +932,12 @@ def lot_phone():
              '<div class="lbl">Pull list</div><div style="font:600 26px/1.2 var(--tw-font)">Passenger Train <span class="mono" style="font-size:15px;color:var(--tw-text-muted)">7938-1</span></div>'
              '<div style="font-size:13px;color:var(--tw-text-2)">Trains · 2010 · 657 parts</div>'
              f'<div class="bar" style="height:8px"><i style="width:2.6%;background:var(--tw-accent)"></i><i style="flex:1;border:1.5px dashed var(--tw-text-2)"></i></div><div class="bartxt">17 of 657 found · 640 to find</div>'
-             f'<span class="input" style="height:40px;color:var(--tw-text-muted)">Search parts</span></div>')
+             f'<span class="input" style="height:40px;color:var(--tw-text-muted)">Search parts</span>'
+             # the shipped controls of the pull list under the search field, behind the scrim (brick-work's #509 frame check)
+             f'<div style="display:flex;gap:8px;align-items:flex-end"><label class="field" style="flex:1;min-width:0">To find<span class="input" style="height:40px">All</span></label>'
+             f'<label class="field" style="flex:1;min-width:0">Category<span class="input" style="height:40px">All</span></label><span class="btn sec sm" style="height:40px">Apply</span></div>'
+             f'<div style="font-size:13px;color:var(--tw-accent-text)">Expand all · Collapse all</div>'
+             f'<div class="tape">Brick<span class="mono">120 to find</span></div></div>')
     rows = ''.join(f'<div style="display:flex;justify-content:space-between;padding:11px 0;border-bottom:1px solid var(--tw-divider);font-size:15px"><span>{k}</span><span class="mono" style="font-weight:600">{v}</span></div>'
                    for k, v in [('Found pieces move out of the lot', 17), ('Recorded as missing on the copy', 640), ('Stay in the lot', 67)])
     sheet = ('<div class="scrim"></div><div class="sheet" style="bottom:0"><div style="width:40px;height:4px;border-radius:2px;background:var(--tw-divider);margin:0 auto 14px"></div>'

diff --git a/design/screens-b/BUILD-NOTES.md b/design/screens-b/BUILD-NOTES.md
@@ -158,6 +158,8 @@ Generated from the review rounds of commission U (review artifact https://claude
 
 - **Corrected 2026-11-21 (#508, found by brick-work's build; pending Ulf's picture check):** the queue tags carry the shipped statuses, as this note says: piece 1 reads "Ready" (the frame said "Confirmed") and the piece being read reads "Recognizing" (it said "To review"); "Confirmed" stays on the Results row. Decided without a picture because they change no layout: the delete cross on a queue row, the chevron on the camera field and the way to the other colours (a "More colours" link on the colour label row that opens the searchable list, the six swatches first and any other colour you hold) are shipped controls the frame left out; the "More colours" link is the one addition and is shown on the next review round. The phone header icons are at the same pixels in frames 04, 10, 11 and 13 (search 636,36 to 665,65; plus 712,36 to 739,63 at 2x).
 
+- **Corrected 2026-11-21 (#509, found by brick-work's frame check; pending Ulf's picture check):** the 390 frame of the pull list left out shipped controls behind the scrim: under the Search parts field the tools row (To find, Category and Apply), the line "Expand all · Collapse all" and the first group header ("Brick · 120 to find", sample numbers). The phone sheet has no Cancel link: the scrim above it closes it, so the app hides Cancel on phones.
+
 ## Round 5: tokens only (#501)
 
 These screens keep their layout and every shipped control and are rebuilt through the tokens and components, on the approved frames named. Shipped screen folders are those of `../screens/`.
